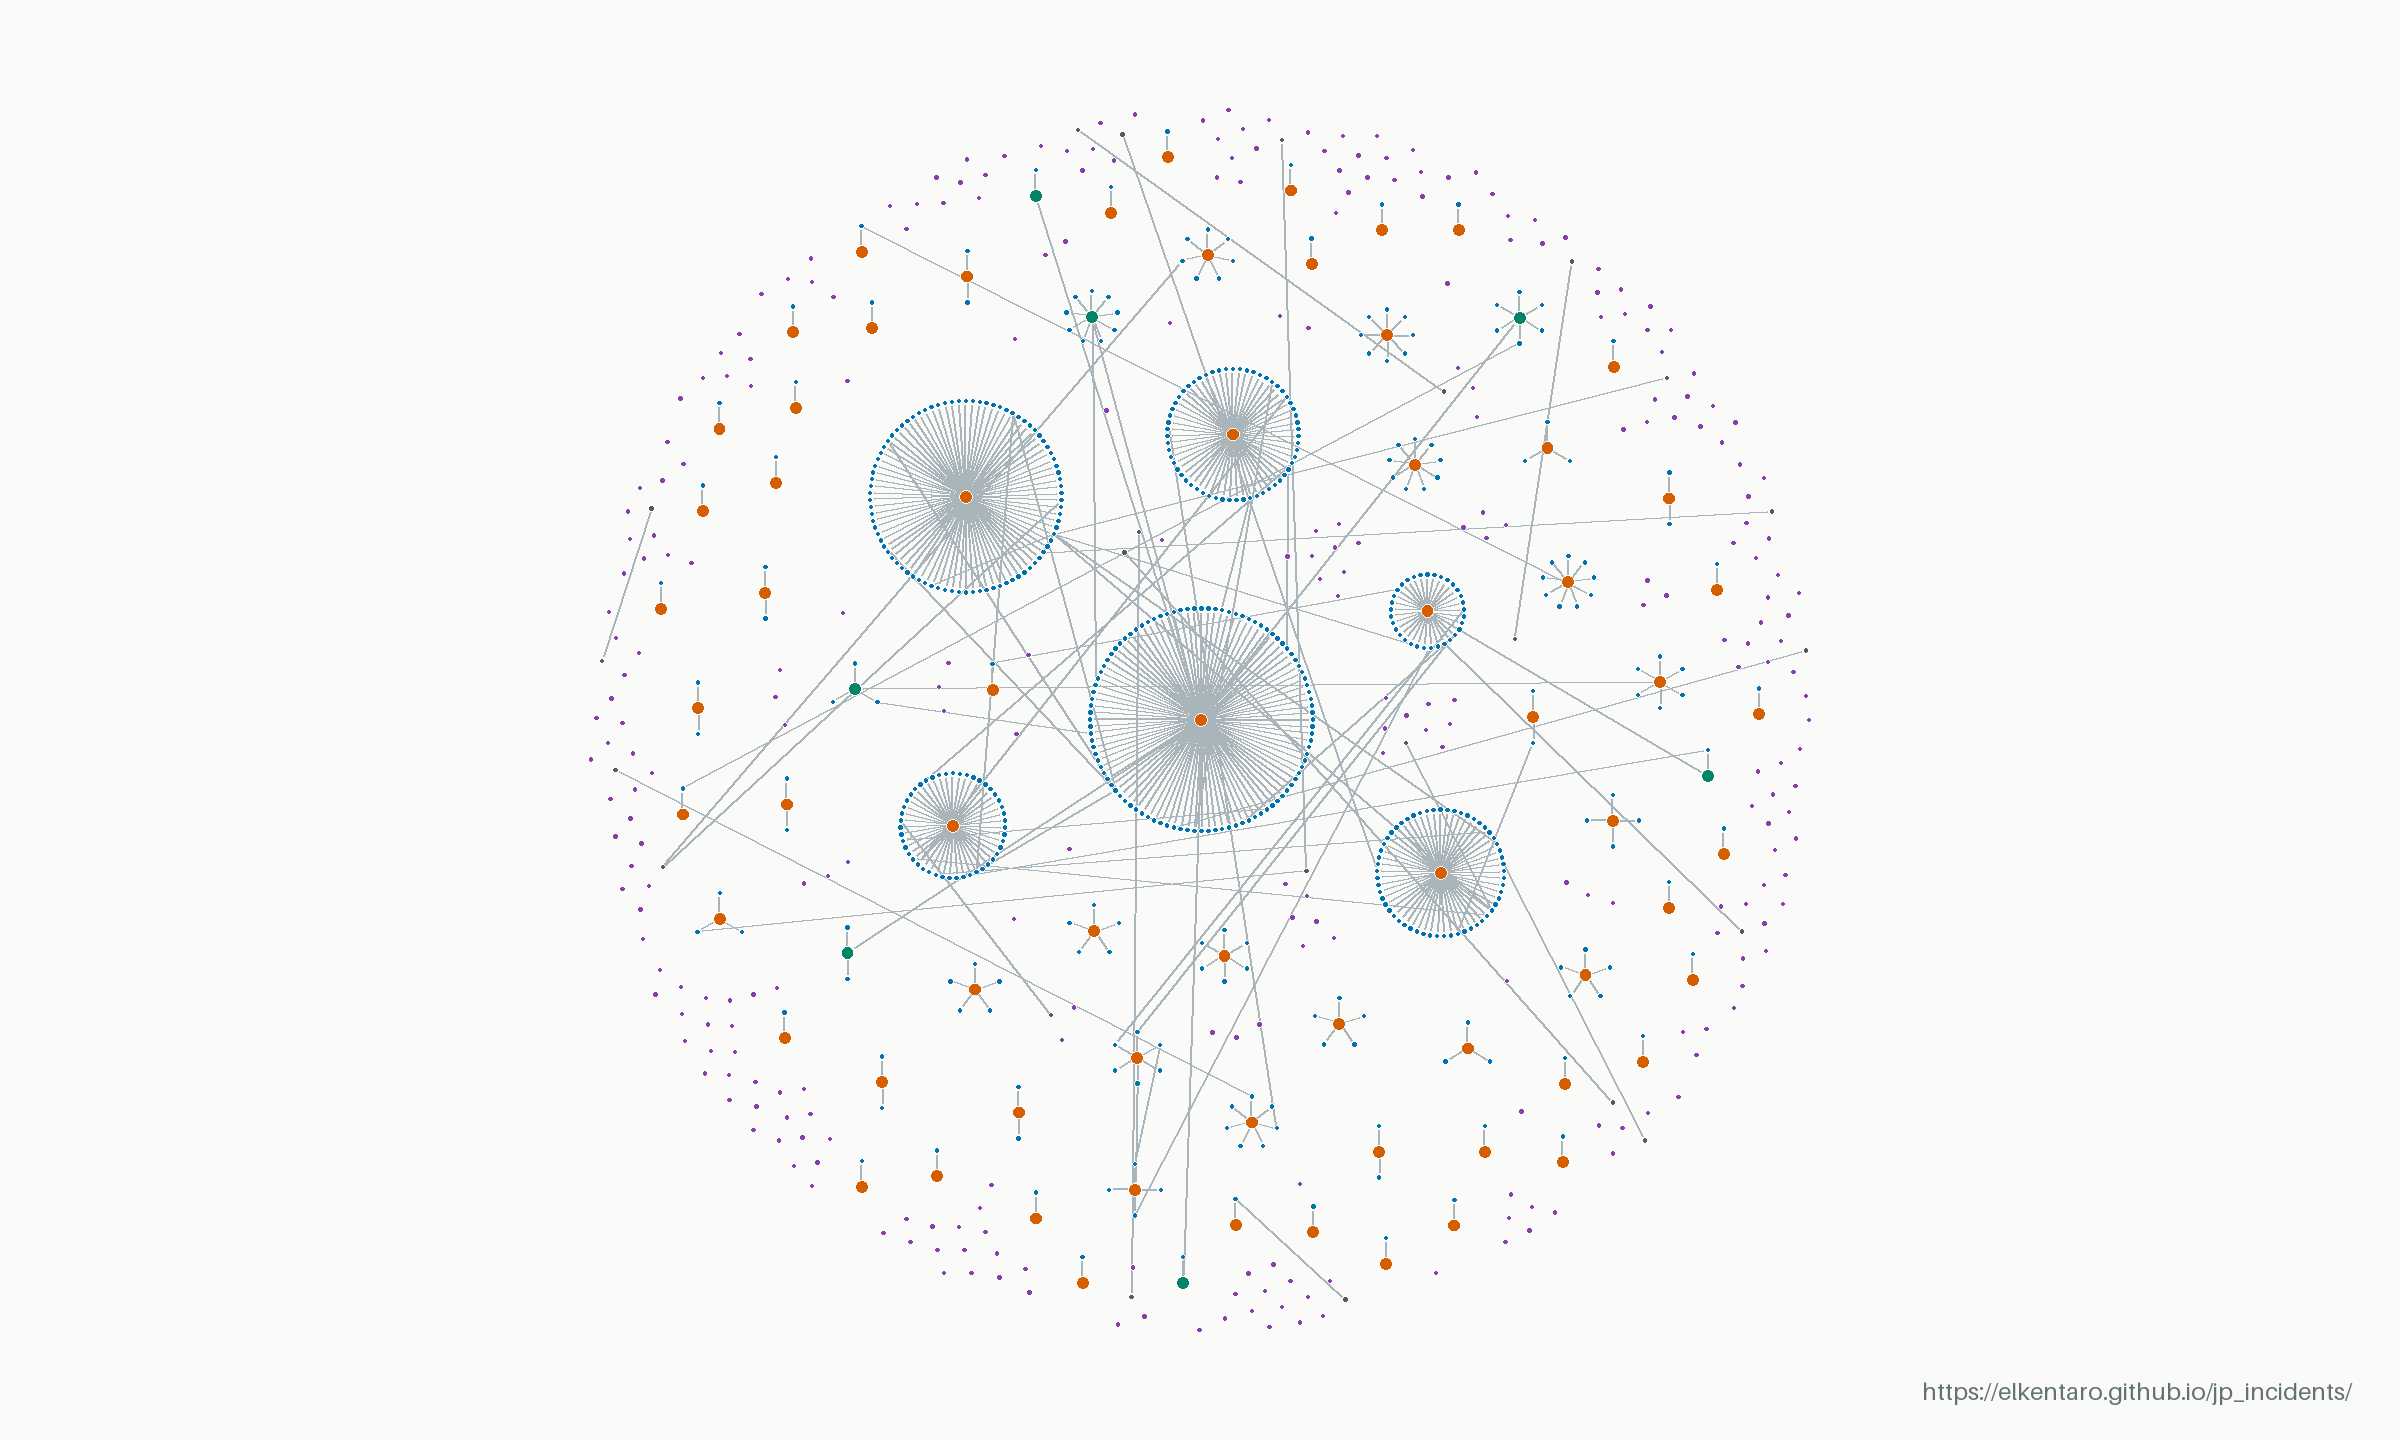
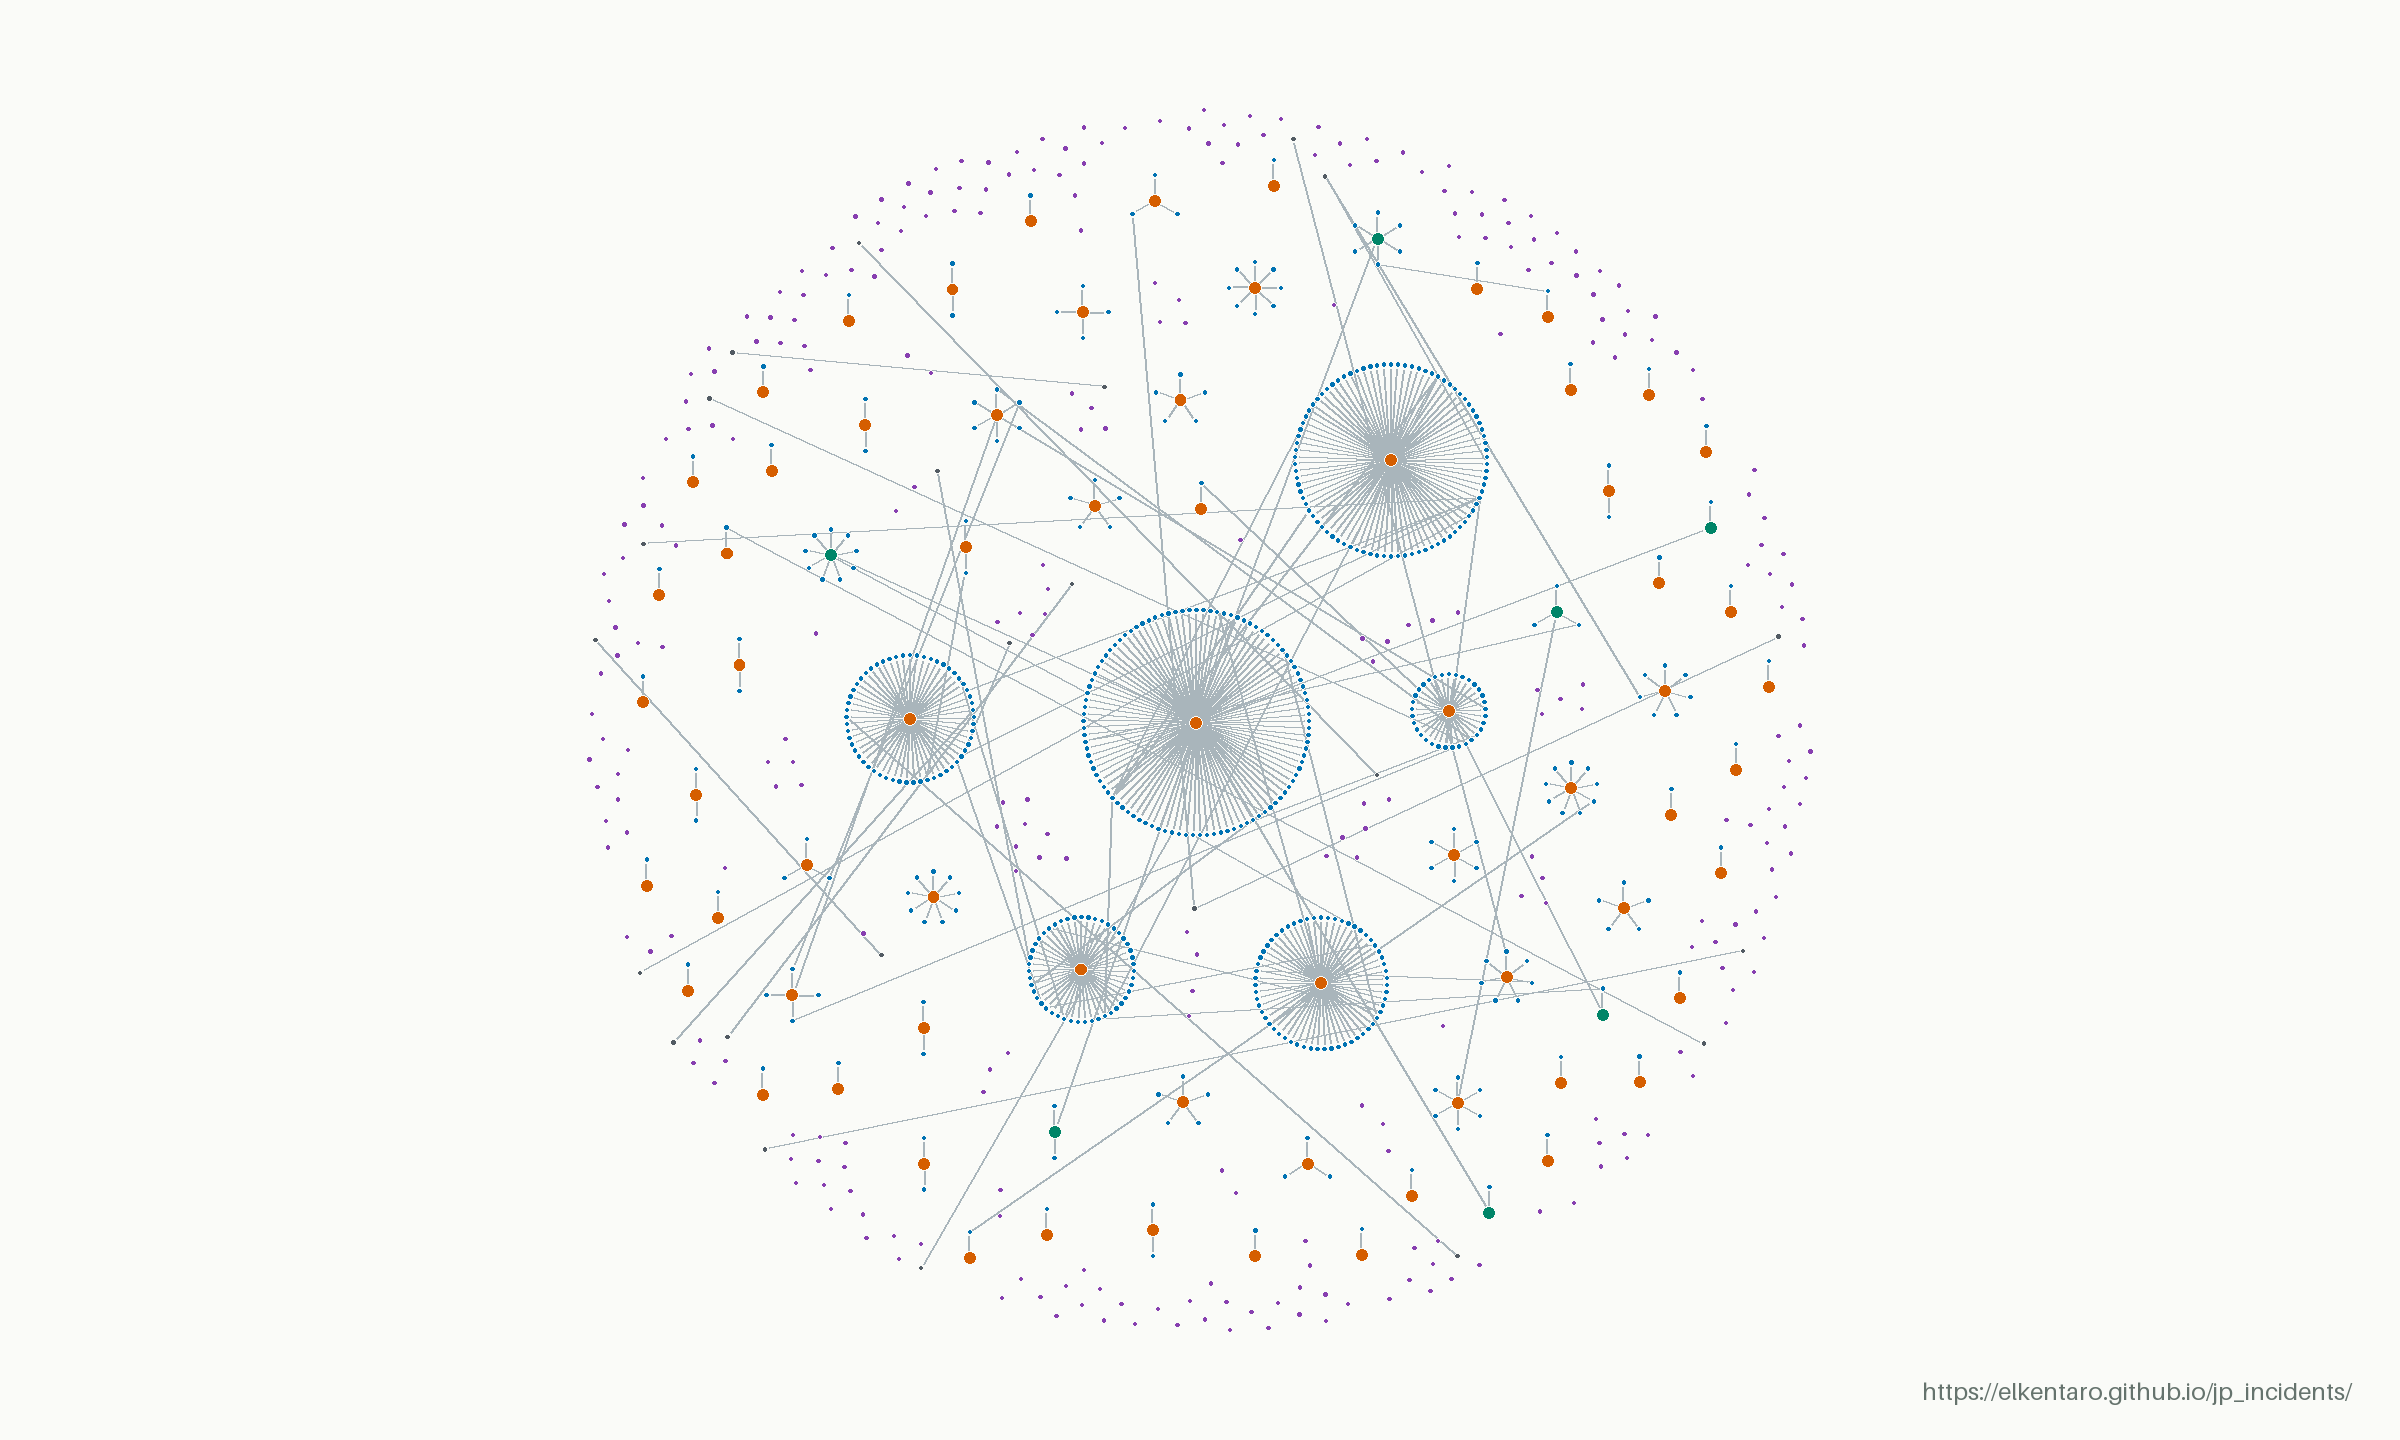
Update incident data (2026-11-07 01:15 UTC)

diff --git a/linkage.html b/linkage.html
@@ -32,17 +32,17 @@
     </section>
     <section class="direct-summary" aria-labelledby="direct-title">
       <dl class="direct-stats">
-        <div class="direct-total"><dt id="direct-title" data-copy="direct">Direct incidents</dt><dd id="direct-count">388</dd></div>
+        <div class="direct-total"><dt id="direct-title" data-copy="direct">Direct incidents</dt><dd id="direct-count">389</dd></div>
         <div><dt data-copy="directUpstream">Upstream incidents</dt><dd id="upstream-count">67</dd></div>
-        <div><dt data-copy="directStandalone">Standalone incidents</dt><dd id="standalone-count">321</dd></div>
+        <div><dt data-copy="directStandalone">Standalone incidents</dt><dd id="standalone-count">322</dd></div>
       </dl>
-      <p class="direct-excluded"><strong id="downstream-count">560</strong> <span data-copy="directExcluded">downstream records excluded, including incidents with both roles.</span></p>
+      <p class="direct-excluded"><strong id="downstream-count">561</strong> <span data-copy="directExcluded">downstream records excluded, including incidents with both roles.</span></p>
       <p class="direct-definition" data-copy="directDefinition">Direct incidents = upstream + standalone, based on recorded causal links. Standalone incidents have no upstream or downstream causal links, but may have other links, such as separate events at the same organization.</p>
     </section>
     <dl class="map-stats">
-      <div><dt data-copy="total">Incidents in snapshot</dt><dd>948</dd></div>
-      <div><dt data-copy="linked">With recorded connections</dt><dd>650</dd></div>
-      <div><dt data-copy="links">Recorded connections</dt><dd>611</dd></div>
+      <div><dt data-copy="total">Incidents in snapshot</dt><dd>950</dd></div>
+      <div><dt data-copy="linked">With recorded connections</dt><dd>651</dd></div>
+      <div><dt data-copy="links">Recorded connections</dt><dd>612</dd></div>
       <div><dt data-copy="networks">Connected networks</dt><dd>58</dd></div>
     </dl>
     <figure class="map-figure">
@@ -50,13 +50,13 @@
         <img src="data/linkage-map.png" width="2400" height="1440" alt="Anonymized incident map. Orange upstream hubs connect to blue downstream incidents; purple unlinked incidents appear throughout the same map without connecting lines." data-copy-alt="alt">
       </div>
       <figcaption>
-        <div class="map-caption-meta"><span><span data-copy="updated">Last updated</span>: <time datetime="2026-11-06T23:08:23.532402+00:00">2026-11-06 23:08 UTC</time></span><a href="data/linkage-map.png" target="_blank" rel="noopener" data-copy="open">Open full-resolution image ↗</a></div>
+        <div class="map-caption-meta"><span><span data-copy="updated">Last updated</span>: <time datetime="2026-11-07T01:15:34.712166+00:00">2026-11-07 01:15 UTC</time></span><a href="data/linkage-map.png" target="_blank" rel="noopener" data-copy="open">Open full-resolution image ↗</a></div>
         <div class="map-key-section">
           <strong id="map-key-title" data-copy="key">Key</strong>
           <ul class="map-key" aria-labelledby="map-key-title">
             <li><span class="key-dot upstream" aria-hidden="true"></span><span data-copy="keyUpstream">Upstream</span></li>
             <li><span class="key-dot downstream" aria-hidden="true"></span><span data-copy="keyDownstream">Downstream</span></li>
-            <li><span class="key-dot standalone" aria-hidden="true"></span><span data-copy="keyStandalone">Unlinked</span><span>(298)</span></li>
+            <li><span class="key-dot standalone" aria-hidden="true"></span><span data-copy="keyStandalone">Unlinked</span><span>(299)</span></li>
             <li><span class="key-dot both" aria-hidden="true"></span><span data-copy="keyBoth">Both roles</span></li>
             <li><span class="key-dot related" aria-hidden="true"></span><span data-copy="keyRelated">Other related</span></li>
             <li><span class="key-line" aria-hidden="true"></span><span data-copy="keyRelationship">Recorded relationship</span></li>
@@ -69,7 +69,7 @@
       <section><h2 data-copy="readingTitle">Reading the map</h2><p data-copy="reading">Orange marks upstream incidents, blue downstream incidents, and purple unlinked incidents with no recorded connection. Teal marks incidents with both upstream and downstream roles; charcoal marks other related incidents. A missing connection does not establish that two incidents are unrelated.</p></section>
       <section><h2 data-copy="snapshotTitle">About this snapshot</h2><p data-copy="snapshot">The static image is refreshed when published incidents or relationships change, and at least every 24 hours during normal publication. Larger upstream clusters have extra spacing to keep their victims apart. Names, incident IDs, source links and incident dates are omitted; the connection pattern is retained. It is an overview of recorded relationships, not a complete map of cyber incidents in Japan.</p></section>
     </div>
-    <p class="map-source"><span data-copy="sourceUpdated">Source data updated</span>: <time datetime="2026-11-06T23:08:21+00:00">2026-11-06T23:08:21+00:00</time> · <a href="./" data-copy="browse">Browse the incident index</a></p>
+    <p class="map-source"><span data-copy="sourceUpdated">Source data updated</span>: <time datetime="2026-11-07T01:15:32+00:00">2026-11-07T01:15:32+00:00</time> · <a href="./" data-copy="browse">Browse the incident index</a></p>
   </main>
   <footer><div class="shell footer-inner"><p data-copy="footer">Public reports. Recorded relationships. An anonymized overview.</p><a href="./" data-copy="back">Back to incidents</a></div></footer>
   <script src="linkage.js?v=20261107-spacing" defer></script>
